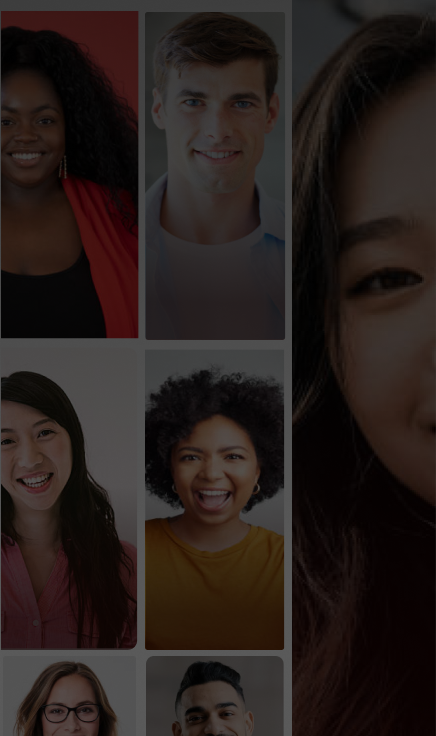
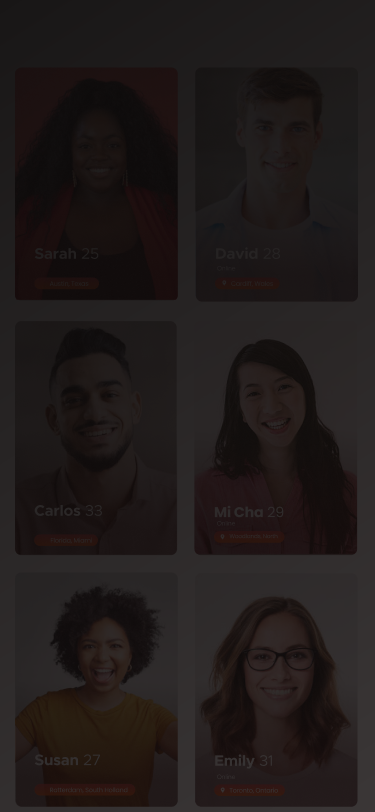
in progress

diff --git a/src/components/BackgroundImage.jsx b/src/components/BackgroundImage.jsx
@@ -5,7 +5,8 @@ import mobileBack from '/images/backAlt.png';
 function BackgroundImage() {
   return (
     <div className='h-[90vh] w-full mb-10'>
-        <img src={background} className='h-[100vh] md:w-[100vw] object-cover flex' loading='lazy' alt=''/>
+        <img src={background} className='h-[100vh] md:w-[100vw] object-cover md:flex hidden' loading='lazy' alt=''/>
+        <img src={mobileBack} className='h-[100vh] w-[100vw] object-cover flex md:hidden' loading='lazy' alt=''/>
 
     </div>
   )

diff --git a/src/index.css b/src/index.css
@@ -10,11 +10,11 @@ body {
     scroll-behavior: smooth;
 }
 
-/*html {
+html {
     scroll-behavior: smooth;
     scrollbar-width: none;
 }
-*/
+
 
 .homePage {
     background: url('/images/background-image.png');
